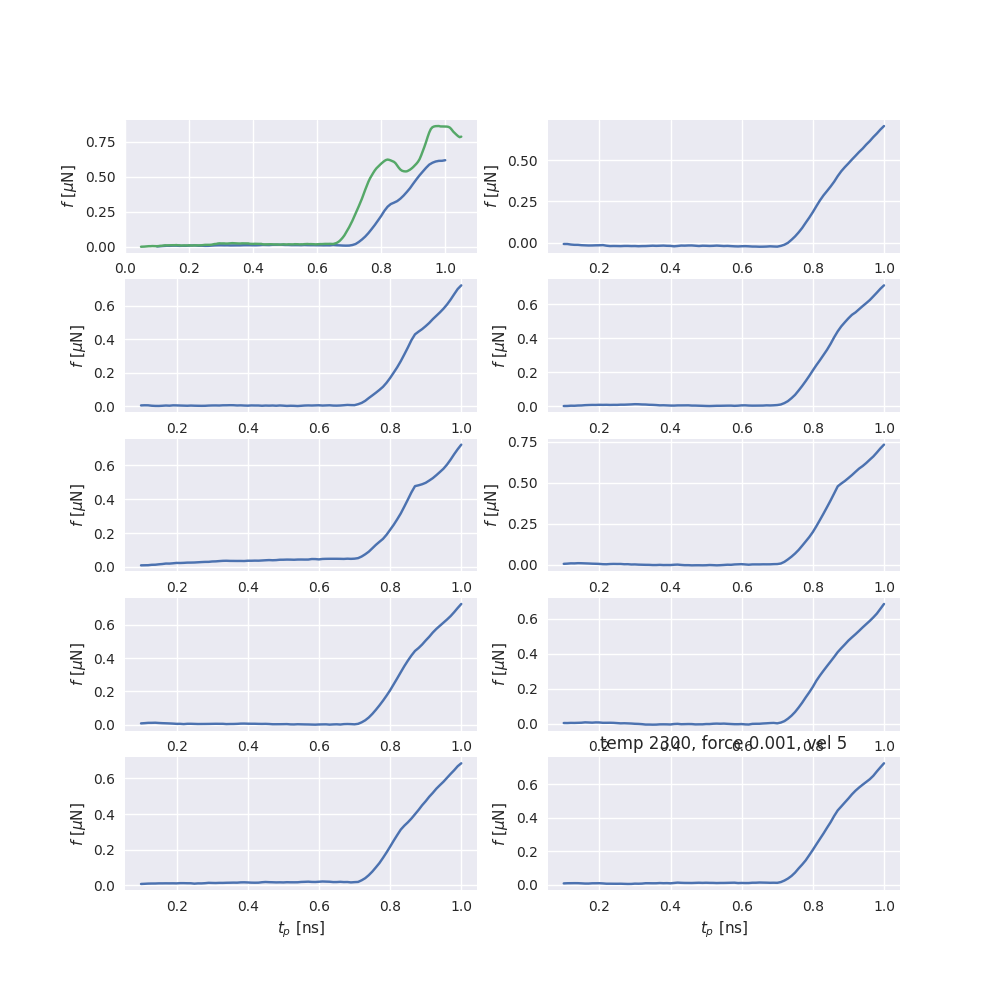
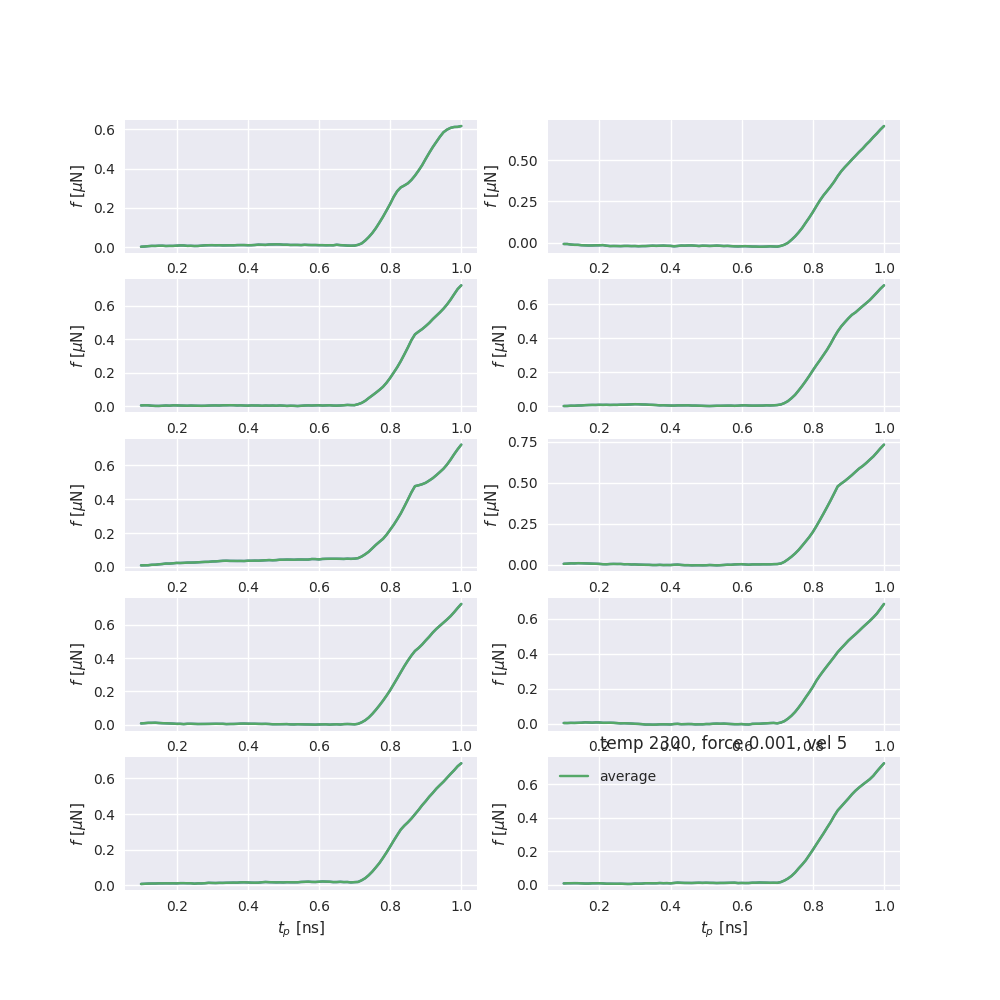
fixed plot

diff --git a/python/plot/plot_load_curves.py b/python/plot/plot_load_curves.py
@@ -30,12 +30,12 @@ def load_load_curves(temp, vel, force, orientation, grid, load_curve_files, temp
         #print('load curves shape: ', np.shape(load_curves))
         load_curves_all.append(load_curves)
     #load_curves_all[1] = load_curves_all[1][:len(load_curves_all[0])]
-    #load_curves_all = np.array(load_curves_all)
+    load_curves_all = np.array(load_curves_all)
     #shortest = np.argmin(load_curves_all) 
-    #load_curves = mean(load_curves_all, axis=0)
-    #load_curves = load_curves.reshape(-1, np.shape(load_curves)[0], 2)   # assuming that all curves have 1001 points
+    load_curves = mean(load_curves_all, axis=0)
+    load_curves = load_curves.reshape(-1, np.shape(load_curves)[0], 2)   # assuming that all curves have 1001 points
     
-    return load_curves_all#, load_curves
+    return load_curves_all, load_curves
 
 
 def load_max_static(temp, vel, force, orientation, grid, template_lc, ms_files, seeds):
@@ -342,7 +342,7 @@ def plot_production(temp, vel, force, asperities, orientation, grid, erratic):
         
         lc_files = template_lc.format(temp, vel, force, asperities, initnum, grid[0], grid[1])
         print(lc_files)
-        load_curves_all  = load_load_curves(temp, vel, force, asperities,
+        load_curves_all, load_curves_mean= load_load_curves(temp, vel, force, asperities,
                                                     grid, lc_files,template_ms, initnum)
         
         ms_files = template_ms.format(temp, vel, force, asperities, initnum, grid[0], grid[1])
@@ -351,9 +351,9 @@ def plot_production(temp, vel, force, asperities, orientation, grid, erratic):
         for curve in load_curves_all:
             axs[i].plot(curve[:,0], curve[:,1])
     
-        #print('mean load curves shape: ',load_curves_mean.shape)
-        #print('all load curves shape: ',load_curves_all.shape)
-        #axs[i].plot(load_curves_mean[0,:,0], load_curves_mean[0,:,1], label = 'average')
+        print('mean load curves shape: ',load_curves_mean.shape)
+        print('all load curves shape: ',load_curves_all.shape)
+        axs[i].plot(load_curves_mean[0,:,0], load_curves_mean[0,:,1], label = 'average')
         axs[i].set_xlabel(r"$t_p$ [ns]")
         axs[i].set_ylabel(r"$f$ [$\mu$N]")
     plt.title(f"temp {temp}, force {force}, vel {vel}")
